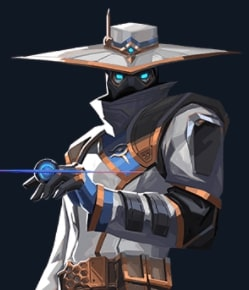
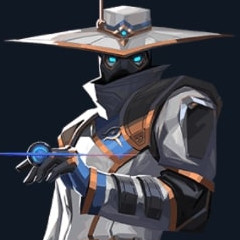
resized Valorant char images, added custom Val background, added home content

diff --git a/teams.html b/teams.html
@@ -102,12 +102,11 @@
             </div>
         </div>
 
-
         <div class="hero" id="main">
             <h1>Ignited Teams</h1>
             <p class="info">
                 <a href="#embersow" class="btn">Embers (OW)</a>
-                <a href="#embersval" class="btn disabled">Embers (VAL)</a>
+                <a href="#embersval" class="btn">Embers (VAL)</a>
                 <a href="#kindling" class="btn">Kindling (OW)</a>
                 <a href="#sparx" class="btn">SparX (OW)</a> </p>
         </div>
@@ -115,9 +114,9 @@
 
     <div class="games" id="embersow">
         <div id="staff">
+            <h2>Ignited Embers (Overwatch)</h2>
             <!-- Owner = Red, Admin = Green, Manager = Blue, Other = Purple -->
             <div class="staff">
-                <h2>Ignited Embers (Overwatch)</h2>
                 <div class="staff-team staff-team-teams">
                     <div class="container">
                         <h3>AndroidV</h3>
@@ -157,8 +156,8 @@
     </div>
     <div class="games" id="kindling">
         <div id="staff">
+            <h2>Ignited Kindling</h2>
             <div class="staff">
-                <h2>Ignited Kindling</h2>
                 <div class="staff-team staff-team-teams">
                     <div class="container">
                         <h3>MuppetMurder</h3>
@@ -238,8 +237,8 @@
     </div>
     <div class="games" id="sparx">
         <div id="staff">
+            <h2>Ignited SparX</h2>
             <div class="staff">
-                <h2>Ignited SparX</h2>
                 <div class="staff-team staff-team-teams">
                     <div class="container">
                         <h3>SolarPancake</h3>
@@ -296,10 +295,10 @@
             </p>
         </div>
     </div>
-    <div class="games" id="embersva">
+    <div class="games" id="embersval">
         <div id="staff">
+            <h2>Ignited Embers (Valorant)</h2>
             <div class="staff">
-                <h2>Ignited Embers (Valorant)</h2>
                 <div class="staff-team staff-team-teams">
                     <div>
                         <h3>Palecks</h3>
@@ -309,7 +308,7 @@
 
                     <div>
                         <h3>Shabow</h3>
-                        <div class="owner">Rifler/2nd Oper
+                        <div class="owner">Rifler/Second Oper
                         </div>
                         <img alt="Sova Logo" src="img/Sova.jpg">
                     </div>
@@ -323,7 +322,7 @@
 
                     <div>
                         <h3>Bryboy</h3>
-                        <div class="founder">Support
+                        <div class="manager">Support
                         </div>
                         <img alt="Cypher Logo" src="img/Cypher.jpg">
                     </div>
@@ -332,12 +331,12 @@
         </div>
     </div>
     <div id="announcement">
-        <div class="an-img val">
+        <div class="an-img an-val">
             <h2>ACCOLADES</h2>
             <p class="an-t">
                 <b>Ignited Embers Valorant History</b>
                 <br><br>
-                
+
                 <br><br>
             </p>
         </div>

diff --git a/index.html b/index.html
@@ -167,8 +167,9 @@
 					<h3>COMPETITION</h3>
 					<p>Competition is in our DNA. Ignited.GG fosters three amateur Overwatch competitive rosters,
 						Ignited Embers, Ignited Kindling, and Ignited SparX, and one VALORANT roster, also known as
-						Ignited Embers. Ignited.GG also hosts monthly tournaments that are produced in-house at <a
-							href="https://twitch.tv/ignited_esports">https://twitch.tv/ignited_esports</a></p>
+						Ignited Embers. Ignited.GG also hosts monthly tournaments that are produced in-house at
+						<a href="https://twitch.tv/ignited_esports">https://twitch.tv/ignited_esports. Examples
+							of our recent successes include our GOATS Tournament and our Open Role Rumble</a></p>
 				</div>
 				<img alt="OW Screenshot" class="gimg a" src="img/gameplay.jpg">
 			</div>
@@ -179,7 +180,7 @@
 				<div>
 					<h3>COMMUNITY</h3>
 					<p>Ignited.GG is more than competition. We are a community of gamers that enjoys doing things
-						together. Ignited.GG hosts ick-up games, ranked games, party games, movie nights, and so much
+						together. Ignited.GG hosts pick-up games, ranked games, party games, movie nights, and so much
 						more.</p>
 				</div>
 				<img alt="Among Us Screenshot" class="gimg b" src="img/amongus.jpg">
@@ -213,7 +214,7 @@
 							src="https://cdn.discordapp.com/avatars/376806222243823647/01b928084c0b8f9acc4e0e9204d95cd4.png?size=1024">
 						<div class="staff-overlay">
 							<div class="ovl-text">Founder of the Ignited.GG server and one of the original
-								players on Embers, Samterr currently acts as the head of the organization.</div>
+								players on Embers, Sam currently acts as the head of the organization.</div>
 						</div>
 					</div>
 

diff --git a/css/stylesheet.css b/css/stylesheet.css
@@ -430,9 +430,9 @@ hr {
 	background-attachment: fixed;
 	padding: 100px 50px;
 }
-.an-img .val{
+.an-val{
 	width: 100%;
-	background: linear-gradient(rgba(0, 0, 0, .65), rgba(0, 0, 0, 0.65)), url("../img/rialto.jpg") no-repeat center center;
+	background: linear-gradient(rgba(0, 0, 0, .65), rgba(0, 0, 0, 0.65)), url("../img/haven.jpg") no-repeat center center;
 	background-size: cover;
 	background-attachment: fixed;
 	padding: 100px 50px;
